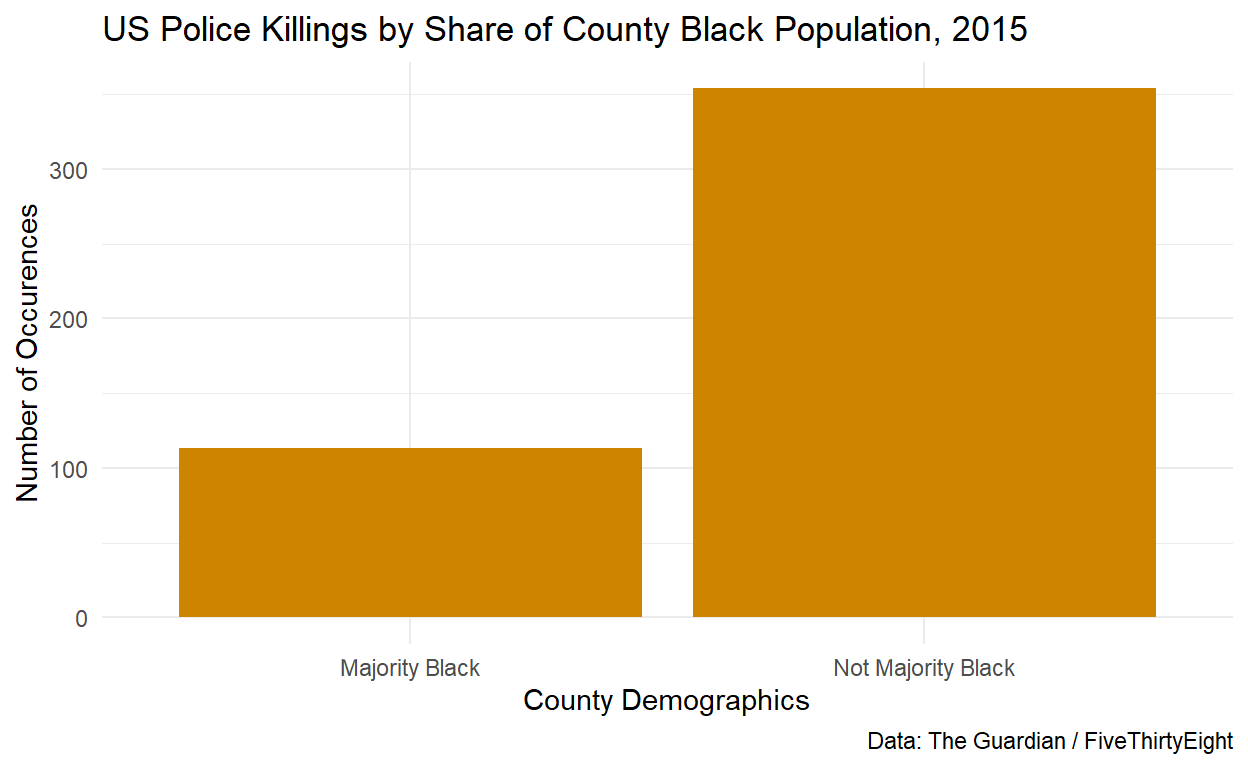
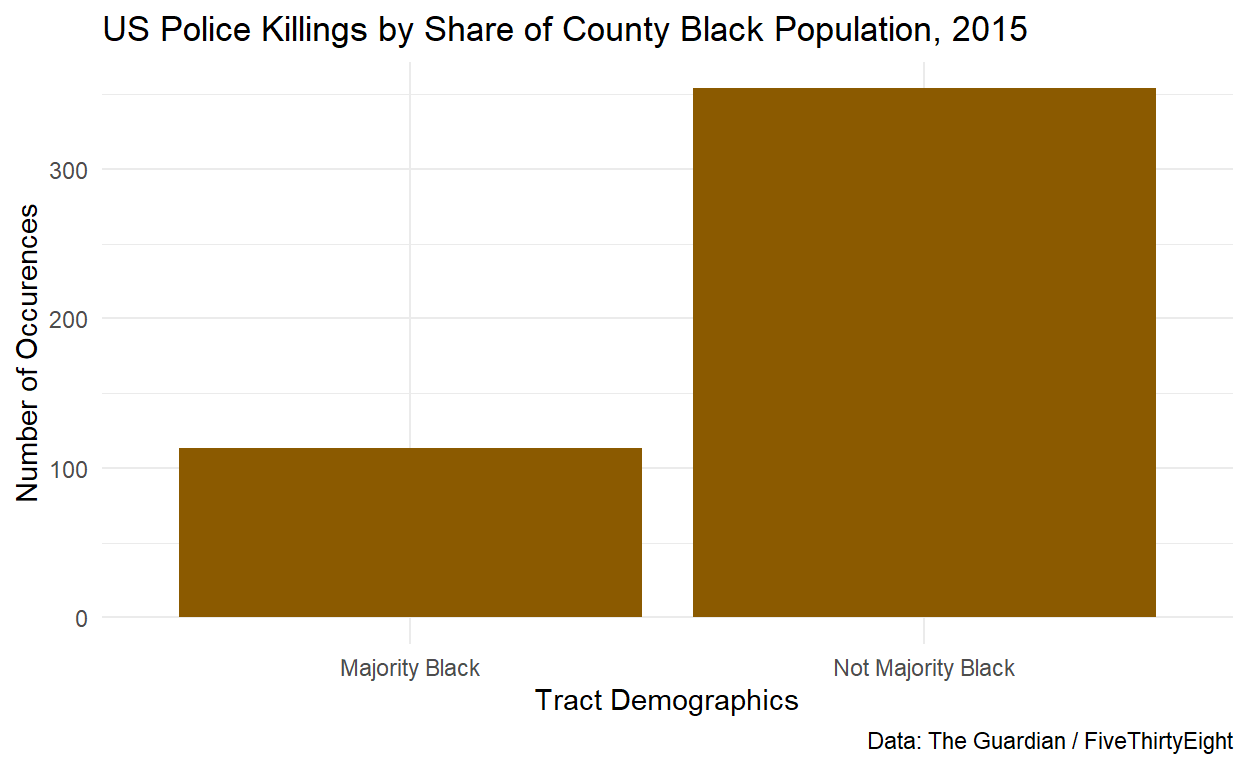
Fixing

diff --git a/index.html b/index.html
@@ -1641,8 +1641,8 @@ code span.wa { color: #5e5e5e; font-style: italic; } /* Warning */
 <pre class="sourceCode r"><code class="sourceCode r"><span><span class='va'>majorityblack</span> <span class='op'>&lt;-</span> <span class='va'>police_killings</span> <span class='op'>|&gt;</span></span>
 <span>  <span class='fu'><a href='https://dplyr.tidyverse.org/reference/mutate.html'>mutate</a></span><span class='op'>(</span>majority_black <span class='op'>=</span> <span class='fu'><a href='https://dplyr.tidyverse.org/reference/if_else.html'>if_else</a></span><span class='op'>(</span><span class='va'>share_black</span> <span class='op'>&gt;</span> <span class='fl'>50</span>, <span class='st'>"Majority Black"</span>, <span class='st'>"Not Majority Black"</span><span class='op'>)</span><span class='op'>)</span> <span class='op'>|&gt;</span></span>
 <span>  <span class='fu'><a href='https://ggplot2.tidyverse.org/reference/ggplot.html'>ggplot</a></span><span class='op'>(</span><span class='fu'><a href='https://ggplot2.tidyverse.org/reference/aes.html'>aes</a></span><span class='op'>(</span>x <span class='op'>=</span> <span class='va'>majority_black</span><span class='op'>)</span><span class='op'>)</span> <span class='op'>+</span></span>
-<span>  <span class='fu'><a href='https://ggplot2.tidyverse.org/reference/geom_bar.html'>geom_bar</a></span><span class='op'>(</span>fill <span class='op'>=</span> <span class='st'>"orange3"</span><span class='op'>)</span> <span class='op'>+</span> </span>
-<span>  <span class='fu'><a href='https://ggplot2.tidyverse.org/reference/labs.html'>labs</a></span><span class='op'>(</span>x <span class='op'>=</span> <span class='st'>"County Demographics"</span>,</span>
+<span>  <span class='fu'><a href='https://ggplot2.tidyverse.org/reference/geom_bar.html'>geom_bar</a></span><span class='op'>(</span>fill <span class='op'>=</span> <span class='st'>"orange4"</span><span class='op'>)</span> <span class='op'>+</span></span>
+<span>  <span class='fu'><a href='https://ggplot2.tidyverse.org/reference/labs.html'>labs</a></span><span class='op'>(</span>x <span class='op'>=</span> <span class='st'>"Tract Demographics"</span>,</span>
 <span>       y <span class='op'>=</span> <span class='st'>"Number of Occurences"</span>,</span>
 <span>       title <span class='op'>=</span> <span class='st'>"US Police Killings by Share of County Black Population, 2015"</span>,</span>
 <span>       caption <span class='op'>=</span> <span class='st'>"Data: The Guardian / FiveThirtyEight"</span><span class='op'>)</span> <span class='op'>+</span></span>
@@ -1730,23 +1730,6 @@ code span.wa { color: #5e5e5e; font-style: italic; } /* Warning */
 <span><span class='va'>groupby_countyincome</span></span></code></pre>
 </div>
 <p><img src="index_files/figure-html5/unnamed-chunk-7-1.png" width="624" /></p>
-</div>
-<h2 id="police-killings-by-age">Police Killings by Age</h2>
-<div class="layout-chunk" data-layout="l-body">
-<div class="sourceCode">
-<pre class="sourceCode r"><code class="sourceCode r"><span><span class='va'>police_killings</span><span class='op'>$</span><span class='va'>age</span> <span class='op'>&lt;-</span> <span class='fu'><a href='https://rdrr.io/r/base/numeric.html'>as.numeric</a></span><span class='op'>(</span><span class='fu'><a href='https://rdrr.io/r/base/character.html'>as.character</a></span><span class='op'>(</span><span class='va'>police_killings</span><span class='op'>$</span><span class='va'>age</span><span class='op'>)</span><span class='op'>)</span></span>
-<span></span>
-<span><span class='va'>groupbyage</span> <span class='op'>&lt;-</span> <span class='va'>police_killings</span> <span class='op'>|&gt;</span></span>
-<span>  <span class='fu'><a href='https://ggplot2.tidyverse.org/reference/ggplot.html'>ggplot</a></span><span class='op'>(</span><span class='fu'><a href='https://ggplot2.tidyverse.org/reference/aes.html'>aes</a></span><span class='op'>(</span>x <span class='op'>=</span> <span class='va'>age</span><span class='op'>)</span><span class='op'>)</span> <span class='op'>+</span></span>
-<span>  <span class='fu'><a href='https://ggplot2.tidyverse.org/reference/geom_histogram.html'>geom_histogram</a></span><span class='op'>(</span>fill <span class='op'>=</span> <span class='st'>"indianred4"</span>, color <span class='op'>=</span> <span class='st'>"black"</span><span class='op'>)</span> <span class='op'>+</span></span>
-<span>  <span class='fu'><a href='https://ggplot2.tidyverse.org/reference/labs.html'>labs</a></span><span class='op'>(</span>x <span class='op'>=</span> <span class='st'>"Age of Deceased"</span>,</span>
-<span>       y <span class='op'>=</span> <span class='st'>"Number of Occurences"</span>,</span>
-<span>       title <span class='op'>=</span> <span class='st'>"US Police Killings by Age, 2015"</span>,</span>
-<span>       caption <span class='op'>=</span> <span class='st'>"Data: Data: The Guardian / FiveThirtyEight"</span><span class='op'>)</span> <span class='op'>+</span></span>
-<span>    <span class='fu'><a href='https://ggplot2.tidyverse.org/reference/ggtheme.html'>theme_minimal</a></span><span class='op'>(</span><span class='op'>)</span></span>
-<span><span class='va'>groupbyage</span></span></code></pre>
-</div>
-<p><img src="index_files/figure-html5/unnamed-chunk-8-1.png" width="624" /></p>
 </div>
 <div class="sourceCode" id="cb2"><pre class="sourceCode r distill-force-highlighting-css"><code class="sourceCode r"></code></pre></div>
 <!--radix_placeholder_article_footer-->
